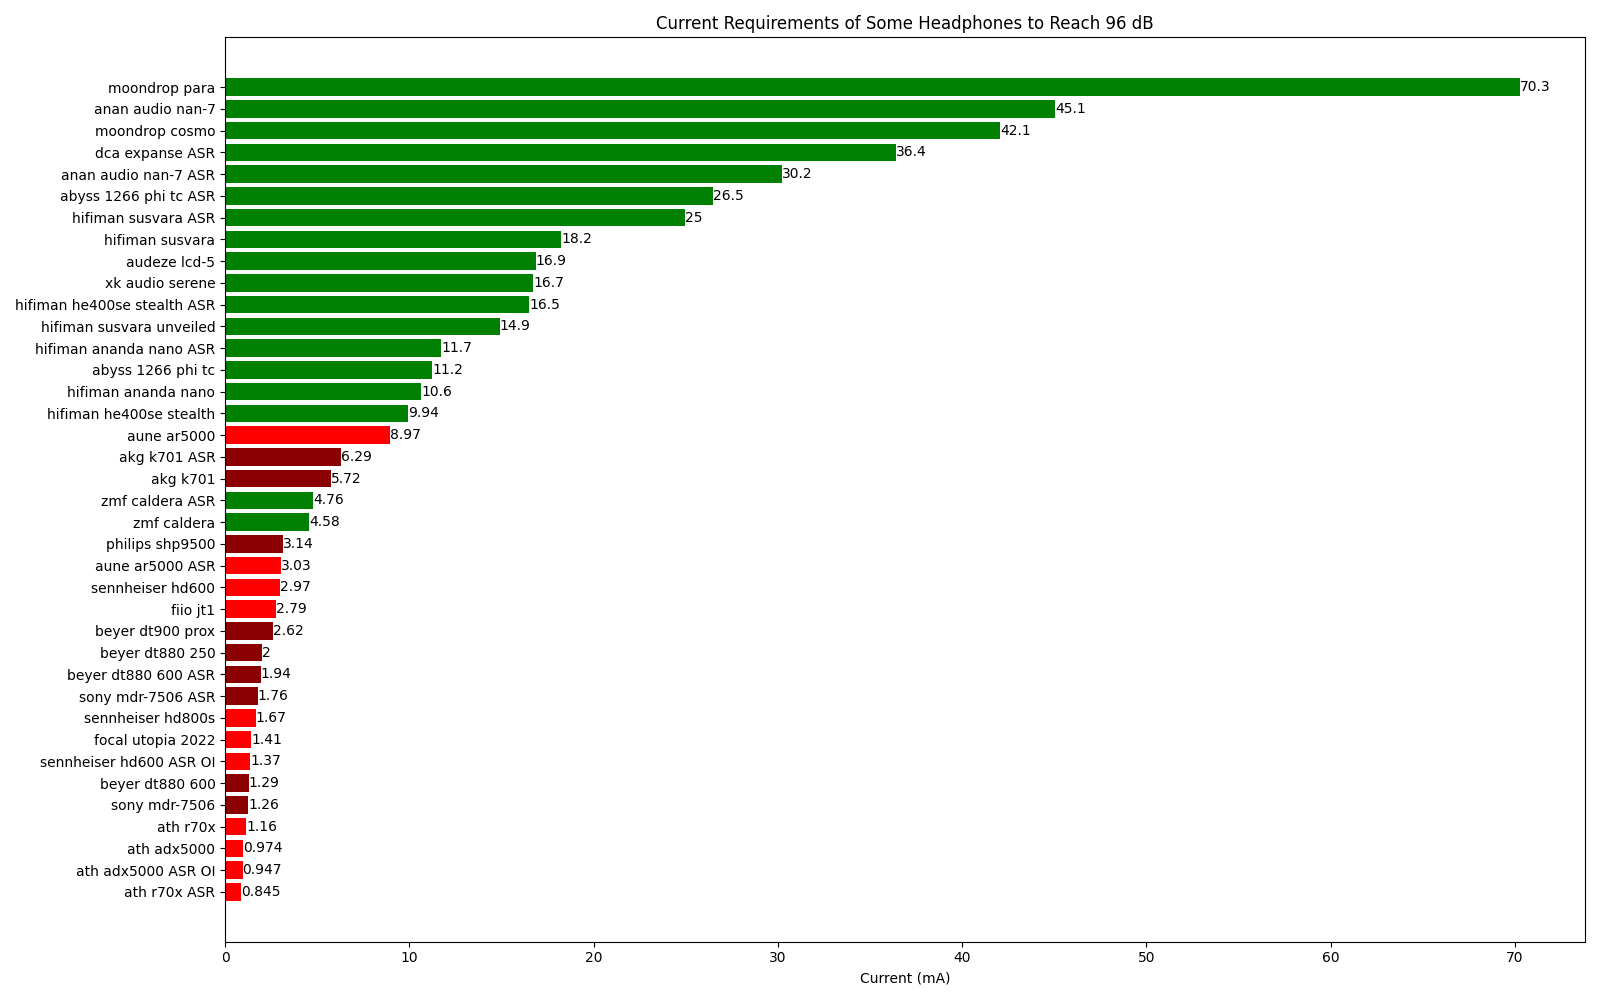
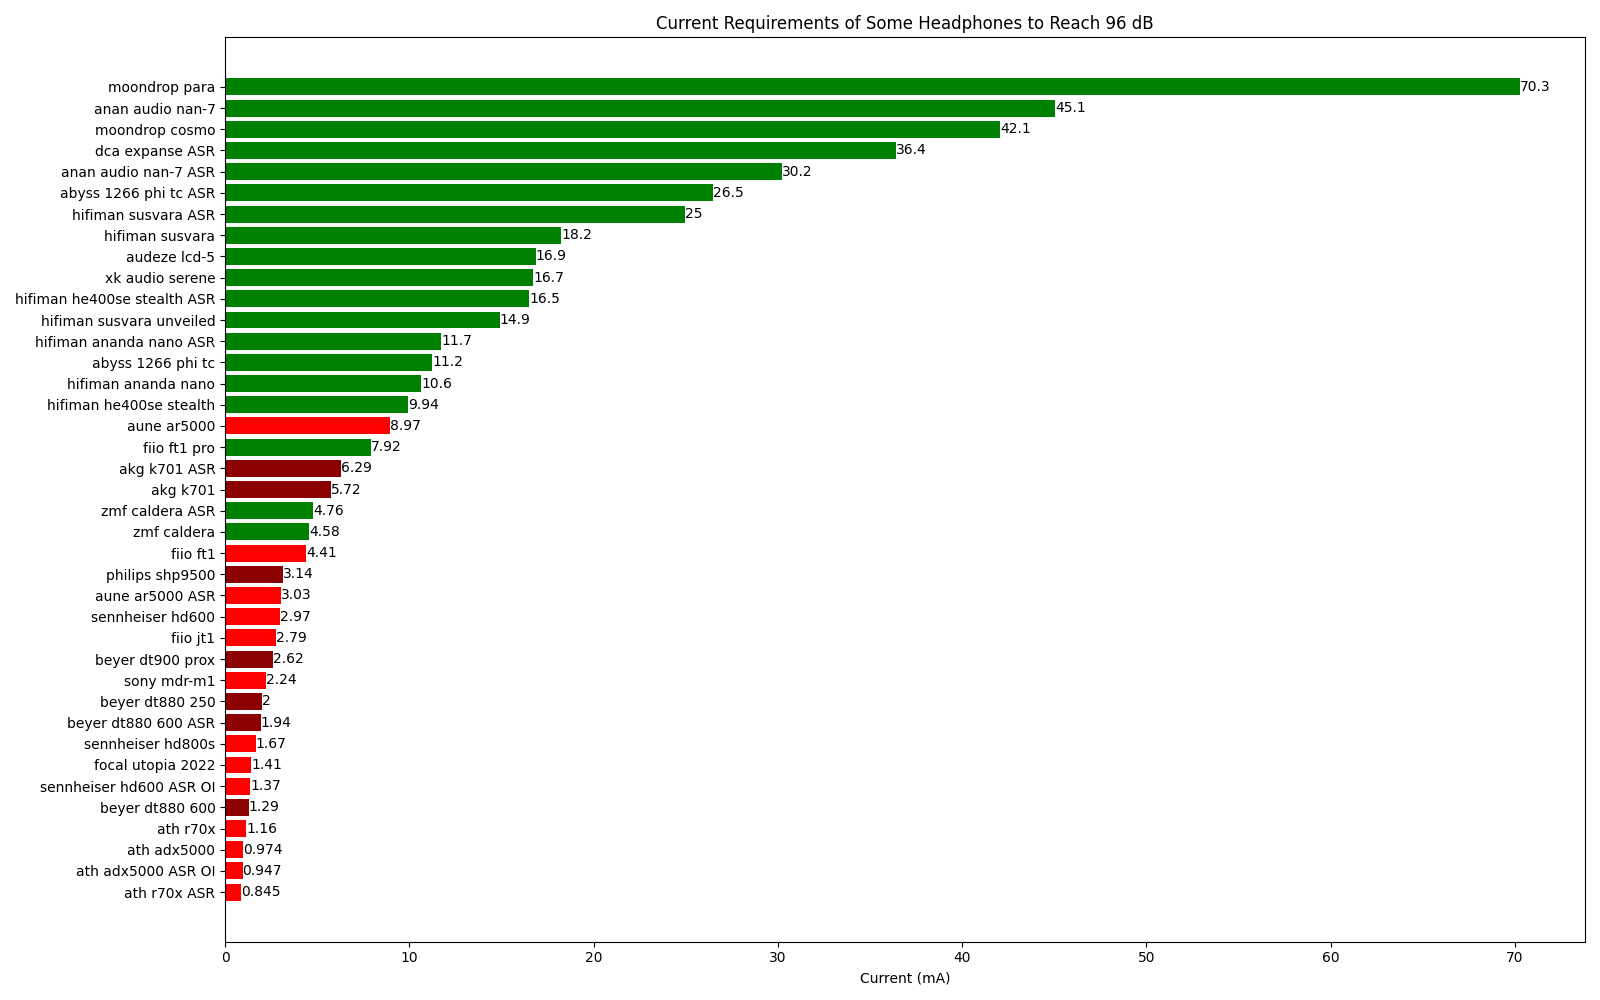
update sensitivities

diff --git a/analysis tools/over-ear sensitivity analysis.py b/analysis tools/over-ear sensitivity analysis.py
@@ -149,7 +149,9 @@ class Headphone:
 
 
 def plot(
-    data,
+    headphones_list,
+    indicator,
+    target_db=96,
     title="",
     xlabel="",
     scale="linear",  # The scale of the x-axis. If data is too spread out, use "log"
@@ -159,6 +161,122 @@ def plot(
     order=True,  # Whether to show the headphones from the highest or the lowest
     save_path=None,
 ):
+
+    def voltage_needed(headphones, target_db):
+        voltage_data = []
+        for headphone in headphones:
+            voltage_needed = headphone.voltage_needed_official(
+                target_db=target_db)
+            if voltage_needed:
+                voltage_data.append(
+                    (
+                        f"{headphone.brand} {headphone.model}",
+                        voltage_needed,
+                        headphone.driver,
+                        headphone.balance,
+                    )
+                )
+            voltage_needed = headphone.voltage_needed_asr(target_db=target_db)
+            if voltage_needed:
+                voltage_data.append(
+                    (
+                        f"{headphone.brand} {headphone.model} ASR",
+                        voltage_needed,
+                        headphone.driver,
+                        headphone.balance,
+                    )
+                )
+        return voltage_data
+
+    def power_needed(headphones, target_db):
+        power_data = []
+        for headphone in headphones:
+            power_needed = headphone.power_needed_official(target_db=target_db)
+            if power_needed:
+                power_data.append(
+                    (
+                        f"{headphone.brand} {headphone.model}",
+                        power_needed,
+                        headphone.driver,
+                        headphone.balance,
+                    )
+                )
+            power_needed = headphone.power_needed_asr(target_db=target_db)
+            if power_needed:
+                power_data.append(
+                    (
+                        f"{headphone.brand} {headphone.model} ASR",
+                        power_needed,
+                        headphone.driver,
+                        headphone.balance,
+                    )
+                )
+            else:
+                power_needed = headphone.power_needed_asr_voltage_official_impedance(
+                    target_db
+                )
+                if power_needed:
+                    power_data.append(
+                        (
+                            f"{headphone.brand} {
+                                headphone.model} ASR OI",
+                            power_needed,
+                            headphone.driver,
+                            headphone.balance,
+                        )
+                    )
+        return power_data
+
+    def current_needed(headphones, target_db):
+        current_data = []
+        for headphone in headphones:
+            current_needed = headphone.current_needed_official(
+                target_db=target_db)
+            if current_needed:
+                current_data.append(
+                    (
+                        f"{headphone.brand} {headphone.model}",
+                        current_needed,
+                        headphone.driver,
+                        headphone.balance,
+                    )
+                )
+            current_needed = headphone.current_needed_asr(target_db=target_db)
+            if current_needed:
+                current_data.append(
+                    (
+                        f"{headphone.brand} {headphone.model} ASR",
+                        current_needed,
+                        headphone.driver,
+                        headphone.balance,
+                    )
+                )
+            else:
+                current_needed = headphone.current_needed_asr_voltage_official_impedance(
+                    target_db
+                )
+                if current_needed:
+                    current_data.append(
+                        (
+                            f"{headphone.brand} {
+                                headphone.model} ASR OI",
+                            current_needed,
+                            headphone.driver,
+                            headphone.balance,
+                        )
+                    )
+        return current_data
+
+    if indicator == "voltage":
+        data = voltage_needed(find_headphones(headphones_list), target_db)
+    elif indicator == "power":
+        data = power_needed(find_headphones(headphones_list), target_db)
+    elif indicator == "current":
+        data = current_needed(find_headphones(headphones_list), target_db)
+    else:
+        print("please input a valid indicator")
+        return
+
     data.sort(key=lambda x: x[1], reverse=not order)
     if beginner > len(data):
         print("Beginner is too large.")
@@ -214,110 +332,19 @@ def plot(
         plt.show()
 
 
-def voltage_needed(headphones, target_db):
-    voltage_data = []
-    for headphone in headphones:
-        voltage_needed = headphone.voltage_needed_official(target_db=target_db)
-        if voltage_needed:
-            voltage_data.append(
-                (
-                    f"{headphone.brand} {headphone.model}",
-                    voltage_needed,
-                    headphone.driver,
-                    headphone.balance,
-                )
-            )
-        voltage_needed = headphone.voltage_needed_asr(target_db=target_db)
-        if voltage_needed:
-            voltage_data.append(
-                (
-                    f"{headphone.brand} {headphone.model} ASR",
-                    voltage_needed,
-                    headphone.driver,
-                    headphone.balance,
-                )
-            )
-    return voltage_data
+# def inquire(headphones_list):
 
 
-def power_needed(headphones, target_db):
-    power_data = []
-    for headphone in headphones:
-        power_needed = headphone.power_needed_official(target_db=target_db)
-        if power_needed:
-            power_data.append(
-                (
-                    f"{headphone.brand} {headphone.model}",
-                    power_needed,
-                    headphone.driver,
-                    headphone.balance,
-                )
-            )
-        power_needed = headphone.power_needed_asr(target_db=target_db)
-        if power_needed:
-            power_data.append(
-                (
-                    f"{headphone.brand} {headphone.model} ASR",
-                    power_needed,
-                    headphone.driver,
-                    headphone.balance,
-                )
-            )
-        else:
-            power_needed = headphone.power_needed_asr_voltage_official_impedance(
-                target_db
-            )
-            if power_needed:
-                power_data.append(
-                    (
-                        f"{headphone.brand} {
-                            headphone.model} ASR OI",
-                        power_needed,
-                        headphone.driver,
-                        headphone.balance,
-                    )
-                )
-    return power_data
-
-
-def current_needed(headphones, target_db):
-    current_data = []
-    for headphone in headphones:
-        current_needed = headphone.current_needed_official(target_db=target_db)
-        if current_needed:
-            current_data.append(
-                (
-                    f"{headphone.brand} {headphone.model}",
-                    current_needed,
-                    headphone.driver,
-                    headphone.balance,
-                )
-            )
-        current_needed = headphone.current_needed_asr(target_db=target_db)
-        if current_needed:
-            current_data.append(
-                (
-                    f"{headphone.brand} {headphone.model} ASR",
-                    current_needed,
-                    headphone.driver,
-                    headphone.balance,
-                )
-            )
-        else:
-            current_needed = headphone.current_needed_asr_voltage_official_impedance(
-                target_db
-            )
-            if current_needed:
-                current_data.append(
-                    (
-                        f"{headphone.brand} {
-                            headphone.model} ASR OI",
-                        current_needed,
-                        headphone.driver,
-                        headphone.balance,
-                    )
-                )
-    return current_data
+def find_headphones(headphones_list):
+    found_headphones = []
+    for brand in headphones_list:
+        for headphone in headphones:
+            if (
+                headphone.brand == brand
+                and headphone.model in headphones_list[brand]
+            ):
+                found_headphones.append(headphone)
+    return found_headphones
 
 
 official = pd.read_csv(
@@ -376,15 +403,22 @@ for index, data in asr.iterrows():
               data['model']+" but official data does not")
         sys.exit(1)
 
+inquire_headphones_list = dict(
+    {
+        "aune": ["ar5000", "sr7000"],
+        "akg": ["k701"]
+    }
+)
 
-reference_headphones_names = dict(
+
+reference_headphones_list = dict(
     {
         "sennheiser": ["hd800s", "hd600"],
         "dca": ["expanse"],
-        "fiio": ["jt1"],
+        "fiio": ["jt1", "ft1", "ft1 pro"],
         "akg": ["k701"],
         "audeze": ["lcd-5"],
-        "sony": ["mdr-7506"],
+        "sony": ["mdr-m1"],
         "beyer": ["dt880 250", "dt900 prox", "dt880 600"],
         "philips": ["shp9500"],
         "focal": ["utopia 2022"],
@@ -399,31 +433,26 @@ reference_headphones_names = dict(
     }
 )
 
-reference_headphones = []
-for brand in reference_headphones_names:
-    for headphone in headphones:
-        if (
-            headphone.brand == brand
-            and headphone.model in reference_headphones_names[brand]
-        ):
-            reference_headphones.append(headphone)
 
 plot(
-    voltage_needed(reference_headphones, 96),
+    headphones_list=reference_headphones_list,
+    indicator="voltage",
     title="Voltage Requirements of Some Headphones to Reach 96 dB",
     xlabel="Voltage (mV)",
     save_path="./analysis results/",
 )
 
 plot(
-    power_needed(reference_headphones, 96),
+    headphones_list=reference_headphones_list,
+    indicator="power",
     title="Power Requirements of Some Headphones to Reach 96 dB",
     xlabel="Power (mW)",
     save_path="./analysis results/",
 )
 
 plot(
-    current_needed(reference_headphones, 96),
+    headphones_list=reference_headphones_list,
+    indicator="current",
     title="Current Requirements of Some Headphones to Reach 96 dB",
     xlabel="Current (mA)",
     save_path="./analysis results/",
